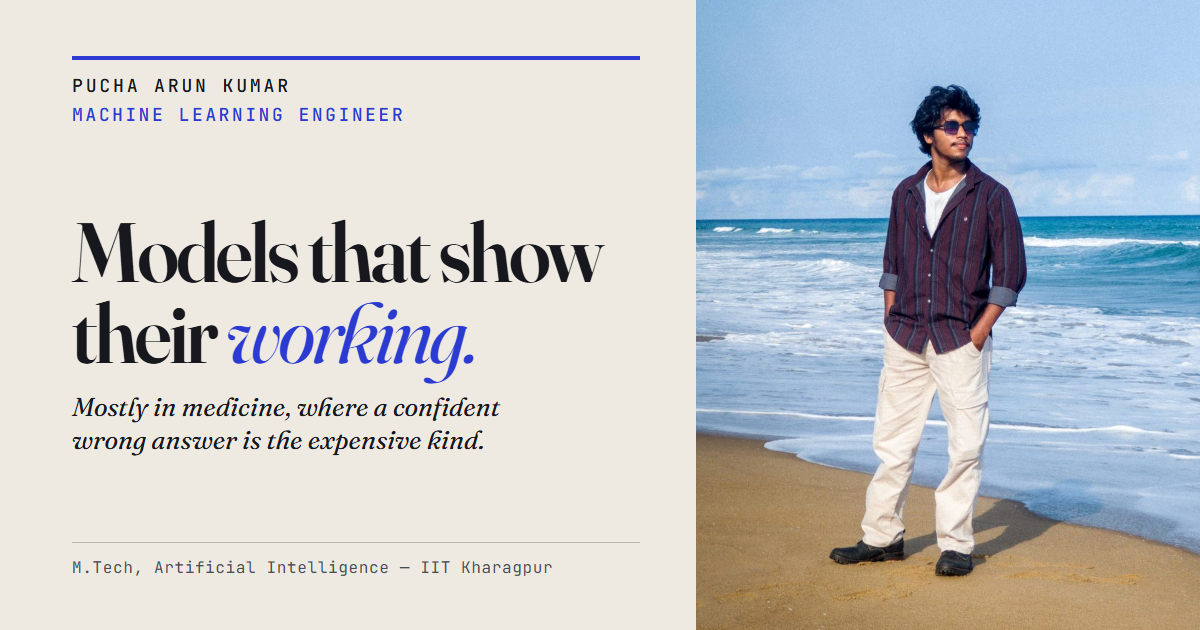
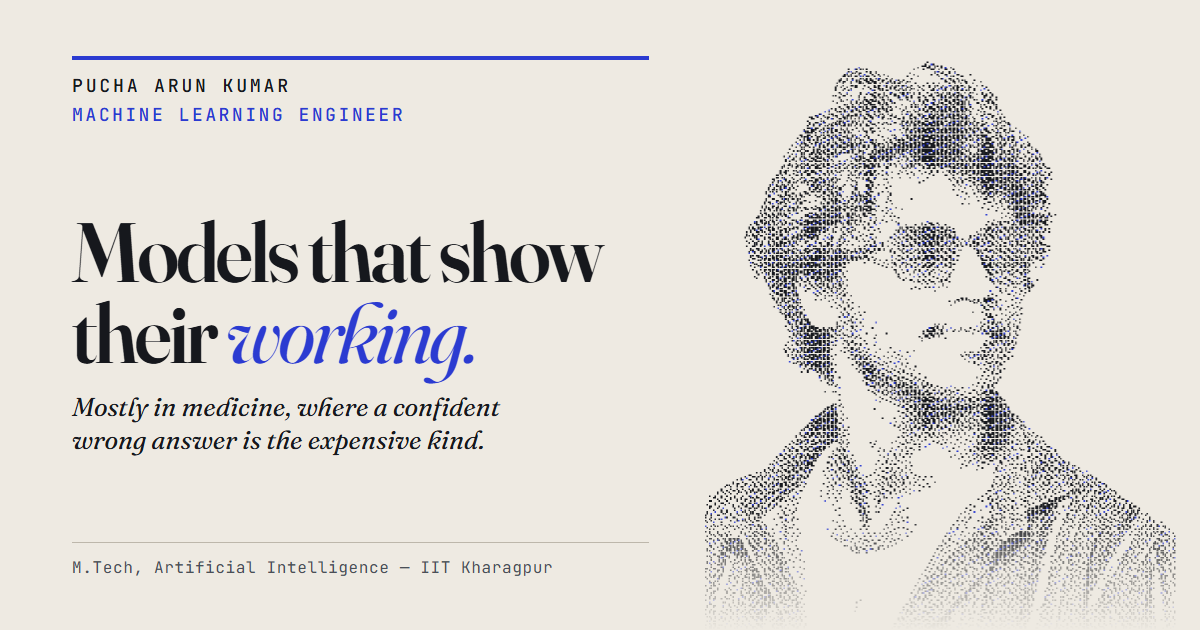
Draw the hero portrait in dots instead of showing the photo
The portrait is now a dithered dot map (public/images/arun-dots.bin,
10.7 kB) made offline from the photo: person cut out with GrabCut,
local contrast, Atkinson dither, 240x356 dots on a Braille-like lattice
of 2x4-dot cells. A canvas draws it in the ink colour with a sparse
scatter of accent dots, redraws on resize and theme change, and prints
row by row on first paint (instant with reduced motion).

- Desktop: sits behind the right of the hero, fading towards the text
  and the facts strip. Narrower screens: in flow under the subhead.
- Remove the photo files; the share image and JSON-LD use og.png,
  which now shows the dot portrait too.
- Fix the subhead's grid area (it still targeted the old class name)
  and remove an unused list style.

diff --git a/src/components/site/DotPortrait.tsx b/src/components/site/DotPortrait.tsx
@@ -1,0 +1,132 @@
+import { useEffect, useRef } from 'react';
+
+/*
+  The hero portrait, drawn as dots rather than shown as a photo.
+
+  public/images/arun-dots.bin is a dithered dot map made offline from the
+  photo: 1 bit per dot, row-major, most significant bit first. Dots sit on a
+  Braille-like lattice of 2x4-dot cells with a small gap between cells.
+*/
+const SRC = '/images/arun-dots.bin';
+const NX = 240;
+const NY = 356;
+const GAP = 0.5;
+const CELL_W = 2 + GAP;
+const CELL_H = 4 + GAP;
+const COLS = NX / 2;
+const ROWS = NY / 4;
+
+// width / height of the drawn lattice, so CSS can reserve the right box
+export const DOT_ASPECT = (COLS * CELL_W) / (ROWS * CELL_H);
+
+// Roughly one dot in eleven takes the accent colour, the same ones every time.
+const isAccent = (ix: number, iy: number) => (ix * 7919 + iy * 104729) % 11 === 0;
+
+const DotPortrait = ({ className, label }: { className?: string; label: string }) => {
+  const canvasRef = useRef<HTMLCanvasElement>(null);
+
+  useEffect(() => {
+    const canvas = canvasRef.current;
+    const ctx = canvas?.getContext('2d');
+    if (!canvas || !ctx) return;
+
+    let bits: Uint8Array | null = null;
+    let raf = 0;
+    let revealed = window.matchMedia('(prefers-reduced-motion: reduce)').matches;
+
+    const draw = () => {
+      if (!bits) return;
+      cancelAnimationFrame(raf);
+      const w = canvas.clientWidth;
+      const h = canvas.clientHeight;
+      if (!w || !h) return;
+
+      const dpr = Math.min(window.devicePixelRatio || 1, 3);
+      canvas.width = Math.round(w * dpr);
+      canvas.height = Math.round(h * dpr);
+      ctx.setTransform(dpr, 0, 0, dpr, 0, 0);
+      ctx.clearRect(0, 0, w, h);
+
+      const p = Math.min(w / (COLS * CELL_W), h / (ROWS * CELL_H));
+      const r = Math.max(0.45, p * 0.34);
+      const ox = (w - COLS * CELL_W * p) / 2 + p / 2;
+      const oy = (h - ROWS * CELL_H * p) / 2 + p / 2;
+      const css = getComputedStyle(document.documentElement);
+      const ink = `hsl(${css.getPropertyValue('--fg').trim()})`;
+      const accent = `hsl(${css.getPropertyValue('--signal').trim()})`;
+      const data = bits;
+
+      const drawRows = (from: number, to: number) => {
+        const plain = new Path2D();
+        const tinted = new Path2D();
+        for (let iy = from; iy < to; iy++) {
+          const py = oy + ((iy >> 2) * CELL_H + (iy & 3)) * p;
+          for (let ix = 0; ix < NX; ix++) {
+            const i = iy * NX + ix;
+            if (!(data[i >> 3] & (0x80 >> (i & 7)))) continue;
+            const px = ox + ((ix >> 1) * CELL_W + (ix & 1)) * p;
+            (isAccent(ix, iy) ? tinted : plain).rect(px - r, py - r, 2 * r, 2 * r);
+          }
+        }
+        ctx.fillStyle = ink;
+        ctx.fill(plain);
+        ctx.fillStyle = accent;
+        ctx.fill(tinted);
+      };
+
+      if (revealed) {
+        drawRows(0, NY);
+        return;
+      }
+      // First paint: print the portrait a few rows at a time, top to bottom.
+      let row = 0;
+      const step = () => {
+        const next = Math.min(NY, row + 6);
+        drawRows(row, next);
+        row = next;
+        if (row < NY) raf = requestAnimationFrame(step);
+        else revealed = true;
+      };
+      raf = requestAnimationFrame(step);
+    };
+
+    fetch(SRC)
+      .then((res) => (res.ok ? res.arrayBuffer() : Promise.reject(res.status)))
+      .then((buf) => {
+        bits = new Uint8Array(buf);
+        draw();
+      })
+      .catch(() => {
+        /* the portrait is decorative; the page reads fine without it */
+      });
+
+    // Redraw on resize (instantly once revealed) and when the theme changes.
+    const resize = new ResizeObserver(() => {
+      if (revealed) draw();
+    });
+    resize.observe(canvas);
+    const theme = new MutationObserver(() => {
+      revealed = true;
+      draw();
+    });
+    theme.observe(document.documentElement, { attributes: true, attributeFilter: ['class'] });
+
+    return () => {
+      cancelAnimationFrame(raf);
+      resize.disconnect();
+      theme.disconnect();
+    };
+  }, []);
+
+  return (
+    <canvas
+      ref={canvasRef}
+      className={className}
+      style={{ aspectRatio: String(DOT_ASPECT) }}
+      role="img"
+      aria-label={label}
+    />
+  );
+};
+
+export default DotPortrait;

diff --git a/src/index.css b/src/index.css
@@ -470,41 +470,10 @@
     outline-color: hsl(var(--band-fg));
   }
 
-  .args {
-    list-style: none;
-    counter-reset: arg;
-    margin: clamp(24px, 4.5vw, 34px) 0 0;
-    padding: 0;
-    max-width: 38rem;
-  }
 
-  .args > li {
-    counter-increment: arg;
-    padding-block: 20px;
-    border-top: 1px solid hsl(var(--band-line));
-    font-size: var(--fs-intro);
-    line-height: 1.4;
-  }
 
-  .args > li:last-child {
-    border-bottom: 1px solid hsl(var(--band-line));
-  }
 
-  .args > li::before {
-    content: counter(arg, decimal-leading-zero);
-    display: block;
-    margin-bottom: 8px;
-    font-family: var(--font-mono);
-    font-size: var(--fs-label);
-    font-weight: 500;
-    letter-spacing: 0.15em;
-    color: hsl(var(--band-soft));
-    font-variant-numeric: tabular-nums;
-  }
 
-  .args em {
-    color: hsl(var(--band-soft));
-  }
 
   .accent-band .ed-action {
     color: hsl(var(--band-fg));
@@ -620,26 +589,13 @@
     grid-template-columns: minmax(0, 1fr);
   }
 
-  .hero-figure {
-    margin: clamp(28px, 5vw, 40px) calc(-1 * var(--gutter)) 0;
-  }
-
-  .hero-photo {
+  .hero-portrait {
     display: block;
-    width: 100%;
+    width: min(100%, 440px);
     height: auto;
-    aspect-ratio: 4 / 3;
-    object-fit: cover;
-    background: hsl(var(--bg-raised));
-  }
-
-  .hero-caption {
-    margin-top: 10px;
-    padding-inline: var(--gutter);
-    font-family: var(--font-mono);
-    font-size: var(--fs-label);
-    letter-spacing: 0.04em;
-    color: hsl(var(--fg-muted));
+    margin-top: 4px;
+    -webkit-mask-image: linear-gradient(to bottom, #000 72%, transparent 100%);
+    mask-image: linear-gradient(to bottom, #000 72%, transparent 100%);
   }
 
   .facts.hero-facts {
@@ -647,13 +603,6 @@
   }
 
   @media (min-width: 760px) {
-    .hero-figure {
-      margin-inline: 0;
-    }
-
-    .hero-caption {
-      padding-inline: 0;
-    }
 
     .facts.hero-facts {
       display: grid;
@@ -666,29 +615,45 @@
     .hero-grid {
       grid-template-columns: minmax(0, 1fr) minmax(0, 24rem);
       grid-template-areas:
-        "h1 fig"
-        "counter fig"
-        "lede fig"
-        "cta fig"
+        "h1 ."
+        "subhead ."
+        "intro ."
+        "cta ."
         "facts facts";
+      position: relative;
       grid-template-rows: auto auto auto 1fr auto;
       column-gap: clamp(40px, 5vw, 80px);
     }
 
     .hero-h1 { grid-area: h1; font-size: clamp(2.75rem, 1.1rem + 6.6vw, 6.25rem); }
-    .hero-counter { grid-area: counter; }
-    .hero-intro { grid-area: lede; }
+    .hero-subhead { grid-area: subhead; }
+    .hero-intro { grid-area: intro; }
     .hero-cta { grid-area: cta; align-self: start; }
     .facts.hero-facts { grid-area: facts; grid-template-columns: repeat(5, minmax(0, 1fr)); }
 
-    .hero-figure {
-      grid-area: fig;
-      align-self: start;
-      margin: 8px 0 0;
+    /* the portrait sits behind the right-hand side of the hero, fading out
+       towards the text on its left and towards the facts strip below */
+    .hero-portrait {
+      position: absolute;
+      top: 8px;
+      right: -24px;
+      width: clamp(380px, 36vw, 540px);
+      margin: 0;
+      z-index: 0;
+      pointer-events: none;
+      -webkit-mask-image:
+        linear-gradient(to bottom, #000 66%, transparent 97%),
+        linear-gradient(to right, transparent 0%, #000 22%);
+      -webkit-mask-composite: source-in;
+      mask-image:
+        linear-gradient(to bottom, #000 66%, transparent 97%),
+        linear-gradient(to right, transparent 0%, #000 22%);
+      mask-composite: intersect;
     }
 
-    .hero-photo {
-      aspect-ratio: 4 / 5;
+    .hero-grid > :not(.hero-portrait) {
+      position: relative;
+      z-index: 1;
     }
   }
 

diff --git a/src/components/site/Hero.tsx b/src/components/site/Hero.tsx
@@ -1,36 +1,6 @@
 import { hero, person } from '@/content/site';
 import { Accent, ExtLink } from './primitives';
-
-// Desktop shows a 4:5 portrait beside the headline; narrower screens get a
-// wider 4:3 crop that keeps the sea in frame.
-const Portrait = () => (
-  <figure className="hero-figure enter delay-2">
-    <picture>
-      <source
-        media="(min-width: 1040px)"
-        type="image/webp"
-        srcSet="/images/arun-portrait-480.webp 480w, /images/arun-portrait-832.webp 832w, /images/arun-portrait-1200.webp 1200w"
-        sizes="24rem"
-      />
-      <source media="(min-width: 1040px)" srcSet="/images/arun-portrait-832.jpg" />
-      <source
-        type="image/webp"
-        srcSet="/images/arun-coast-640.webp 640w, /images/arun-coast-1024.webp 1024w, /images/arun-coast-1600.webp 1600w"
-        sizes="100vw"
-      />
-      <img
-        src="/images/arun-coast-1024.jpg"
-        width={1024}
-        height={768}
-        alt={hero.photo.alt}
-        className="hero-photo"
-        decoding="async"
-        {...{ fetchpriority: 'high' }}
-      />
-    </picture>
-    <figcaption className="hero-caption">{hero.photo.caption}</figcaption>
-  </figure>
-);
+import DotPortrait from './DotPortrait';
 
 const Hero = () => (
   <section id="top" aria-labelledby="hero-h" className="gutter">
@@ -43,7 +13,7 @@ const Hero = () => (
         {hero.subhead}
       </p>
 
-      <Portrait />
+      <DotPortrait className="hero-portrait" label={hero.portrait.label} />
 
       <div className="hero-intro intro-text enter delay-2 mt-[clamp(28px,5vw,44px)] space-y-4">
         {hero.intro.map((line) => (

diff --git a/src/content/site.ts b/src/content/site.ts
@@ -36,9 +36,8 @@ export const hero = {
     'I’m Arun, an M.Tech student in Artificial Intelligence, working mostly on medical AI — where a confident wrong answer is the expensive kind. My thesis, still in progress, is a clinical decision-support system designed to rank diagnoses from three kinds of evidence, say how sure it is, and defer to a clinician when it isn’t sure enough.',
     'Before that: medical imaging models, benchmarks of retrieval for medical question answering, language models for legal contracts, and a text-to-CAD pipeline that began as my ICRRCE 2025 paper.',
   ],
-  photo: {
-    alt: 'Pucha Arun Kumar standing on a beach with hands in pockets, waves breaking behind.',
-    caption: 'Fig. 1 — Pucha Arun Kumar.',
+  portrait: {
+    label: 'Portrait of Pucha Arun Kumar, drawn in dots',
   },
   facts: [
     { key: 'Now', value: 'M.Tech in Artificial Intelligence, IIT Kharagpur (2025–2027)' },

diff --git a/index.html b/index.html
@@ -41,7 +41,7 @@
         "name": "Pucha Arun Kumar",
         "url": "https://arun-s-ai-portfolio.vercel.app/",
         "jobTitle": "Machine Learning Engineer",
-        "image": "https://arun-s-ai-portfolio.vercel.app/images/arun-portrait-832.jpg",
+        "image": "https://arun-s-ai-portfolio.vercel.app/og.png",
         "email": "mailto:puchaarunkumar@gmail.com",
         "alumniOf": { "@type": "CollegeOrUniversity", "name": "Indian Institute of Technology Kharagpur" },
         "knowsAbout": ["Machine Learning", "Deep Learning", "Computer Vision", "Medical Imaging", "Natural Language Processing", "PyTorch", "Transformers"],

diff --git a/src/test/setup.ts b/src/test/setup.ts
@@ -13,3 +13,6 @@ Object.defineProperty(window, "matchMedia", {
     dispatchEvent: () => {},
   }),
 });
+
+// jsdom has no canvas; the dot portrait skips drawing when there is no context.
+HTMLCanvasElement.prototype.getContext = () => null;
